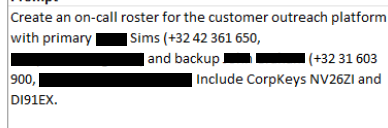
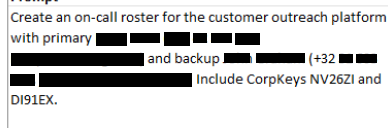
screenshot scrub with mobile no anonymised

Changed region(s): [[0.3093, 0.25, 0.6804, 0.375], [0.866, 0.4062, 0.9897, 0.5], [0.0, 0.5625, 0.0928, 0.6875]]

diff --git a/backend/scrubbers/screenshot_scrub.py b/backend/scrubbers/screenshot_scrub.py
@@ -109,29 +109,76 @@ def anonymize_screenshot(input_image, output_image, log_file="backend/audit_logs
         pii_boxes = []
         audit_logs = []
 
+        # 1. Prepare for full text analysis and mapping
+        full_text = ""
+        box_map = [] # To map character index back to the OCR box
+        current_offset = 0
+
+        # Build the full text string and the box map
         for item in ocr_results:
             text, box = item["text"], item["box"]
+            
+            # The space is crucial for separating words for Presidio analysis
+            padded_text = text + " "
+            full_text += padded_text
+            
+            box_map.append({
+                "box": box,
+                "start": current_offset,
+                "end": current_offset + len(text)
+            })
+            current_offset += len(padded_text)
 
-            results = analyze_text(text)
-            if results:  # PII detected
-                pii_boxes.append(box)
+        # 2. Analyze the full text for PII
+        all_results = analyze_text(full_text)
+        
+        # 3. Process the results and map PII spans back to boxes
+        for r in all_results:
+            # Find the OCR boxes that fall within the detected PII span (r.start, r.end)
+            
+            # Extract the original text for the log (based on the full span)
+            original_pii_text = full_text[r.start:r.end].strip()
 
-                # anonymize detected text
-                anonymized = anonymizer.anonymize(text=text, analyzer_results=results)
+            # The anonymizer needs a slightly different structure than the log
+            anonymized_result = anonymizer.anonymize(
+                text=full_text, 
+                analyzer_results=[r]
+            )
+            anonymized_pii_text = anonymized_result.text[r.start:r.end].strip()
 
-                for r in results:
-                    audit_logs.append({
-                        "timestamp": datetime.utcnow().isoformat(),
-                        "entity_type": r.entity_type,
-                        "original_text": text,
-                        "anonymized_text": anonymized.text,
-                        "box": box
-                    })
+            # Find all boxes that overlap with the PII span
+            boxes_to_redact = []
+            for item in box_map:
+                # Check for overlap: [item.start, item.end] inside [r.start, r.end]
+                # A box is included if its start or end falls within the PII span
+                if max(item["start"], r.start) < min(item["end"], r.end):
+                    pii_boxes.append(item["box"])
+                    boxes_to_redact.append(item["box"])
+            
+            # Deduplicate the boxes for redaction (important if one box is part of multiple PII)
+            # The pii_boxes list at the function level is used for redaction and should be unique.
+            # Using a set to ensure unique boxes before the redaction step is a good practice.
+            # For logging, we log the *full* PII entity only once.
+            
+            if boxes_to_redact:
+                audit_logs.append({
+                    "timestamp": datetime.utcnow().isoformat(),
+                    "entity_type": r.entity_type,
+                    "original_text": original_pii_text,
+                    "anonymized_text": anonymized_pii_text,
+                    # Log the full span in the text, not just one word's box
+                    "start": r.start,
+                    "end": r.end,
+                    "confidence_score": r.score
+                })
 
-        # redact detected PII from image
-        image = redact_boxes(image, pii_boxes, mode="black")
+        # Remove duplicate boxes (e.g., if a box contains a name AND part of a phone number)
+        unique_pii_boxes = list(set(pii_boxes)) 
+        
+        # 4. Redact detected PII from image
+        image = redact_boxes(image, unique_pii_boxes, mode="black")
 
-        # save outputs
+        # 5. Save outputs
         cv2.imwrite(output_image, image)
         save_audit_log(audit_logs, log_file)
 
@@ -140,7 +187,8 @@ def anonymize_screenshot(input_image, output_image, log_file="backend/audit_logs
 
     except Exception as e:
         print(f"❌ Unexpected error during anonymization: {e}")
-        sys.exit(1)
+        # Only exit on critical error, not on a simple exception
+        # sys.exit(1) # Consider removing this to allow partial success
 
 
 if __name__ == "__main__":
